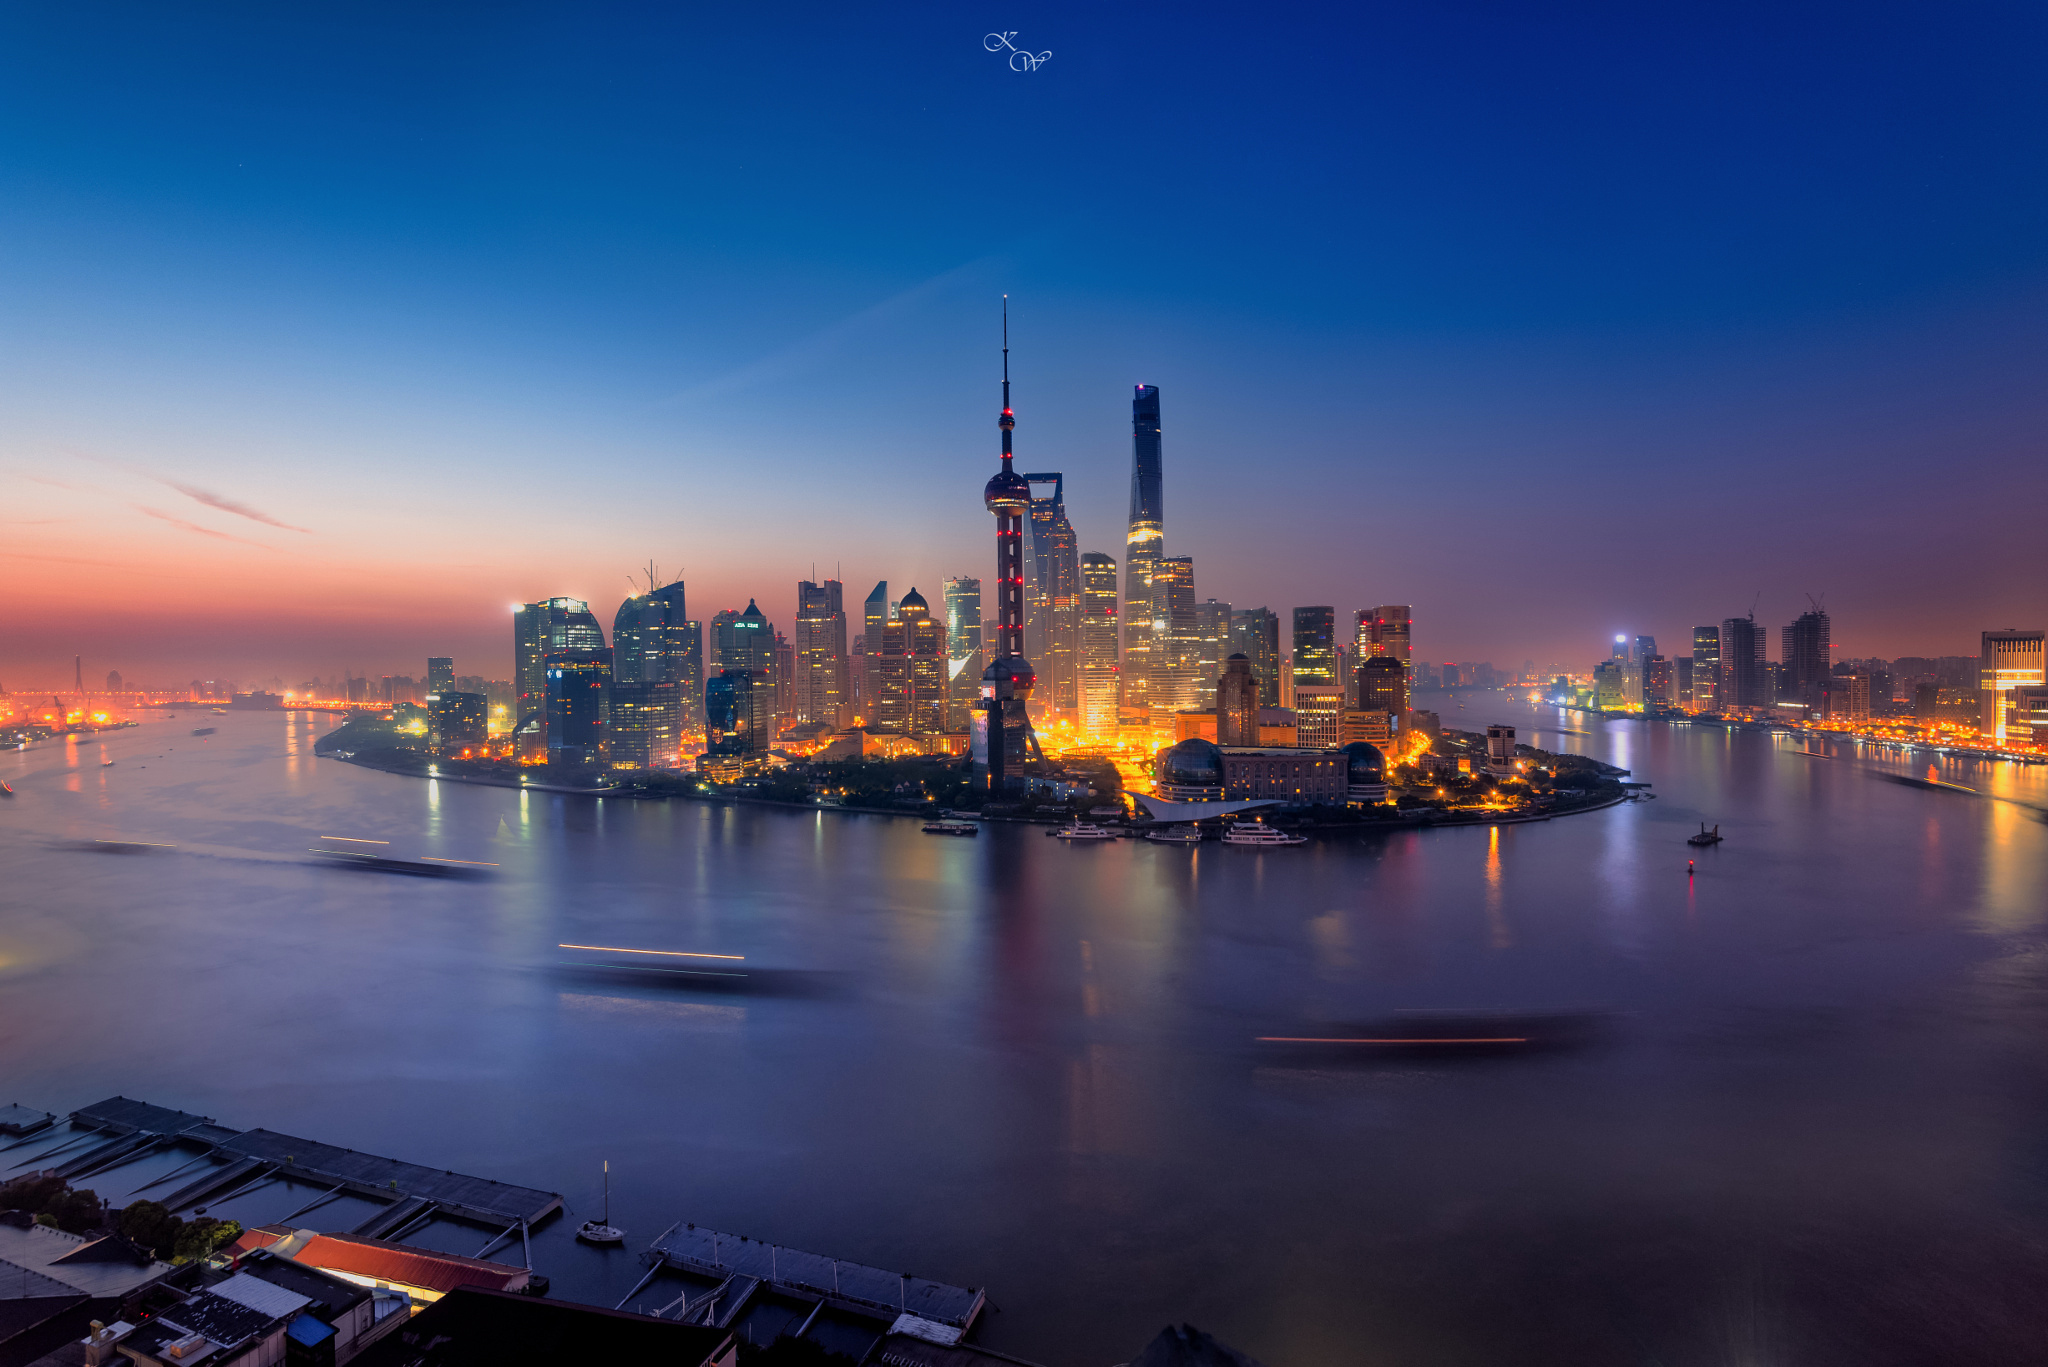
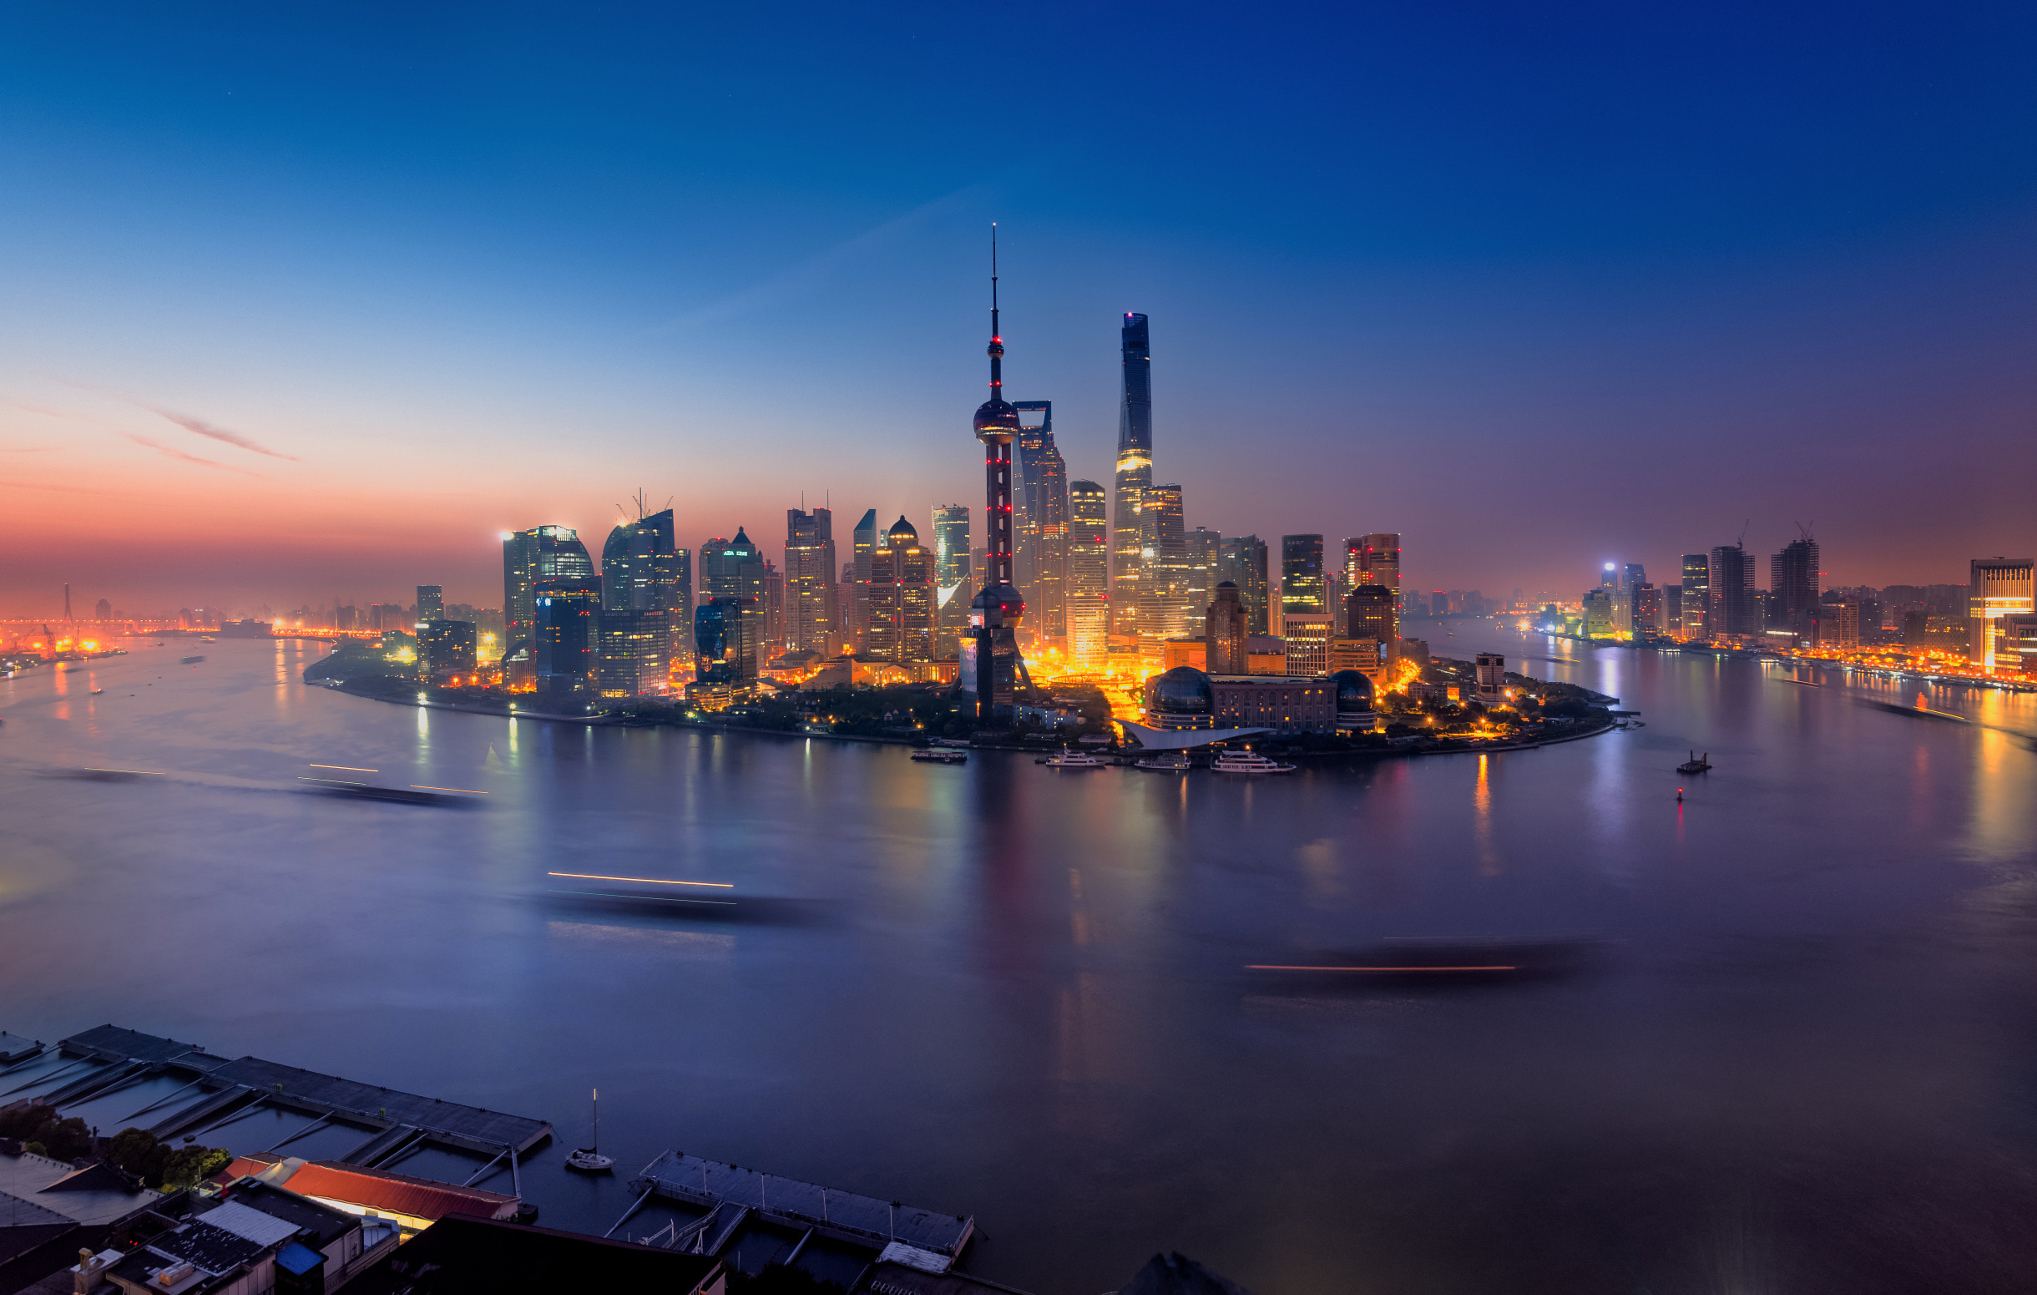
test

diff --git a/index.html b/index.html
@@ -11,7 +11,7 @@
   <body>
  <div style="overflow:auto; position:absolute; top: 0px; left:0px; right:0px; bottom:0px;">
   <div id="nav">
-    <ul id="nav_ul">
+    <ul id="nav_ul" style="box-shadow: 5px 5px 5px #555555;">
       <li><a class="active" href="#nav">Home</a></li>
       <li><a href="#about">ABOUT</a></li>
       <li><a href="#skill">SKILLS</a></li>
@@ -35,7 +35,7 @@
       <div id="photo">
        <image id="photo_img"  src="image/jing1.jpg" style="box-shadow: 3px 3px 5px #888888;">
       </div>
-      <div id="description">
+      <div id="description" class="page">
         <table>
           <tr><td><span style="font-size: 80%;">I am a third year Computer Science undergraduate student at University of Waterloo, with an interest in statistics, combinatorics & optimization and computer science.</span></td></tr>
           <tr><td><span style="font-size: 80%;"><span class="bold">DATE OF BIRTH</span>: 06/12/1994</span></td></tr>
@@ -59,7 +59,7 @@
       <div style="background: #303F9F;box-shadow: 3px 3px 5px #888888;">
        <h1 class="header">Education</h1>
       </div>
-      <div style="position:relative; left: 10%; width: 80%">
+      <div style="position:relative; left: 10%; width: 80%" class="page">
        <table>
           <th colspan="2"><image class="rotate" src="image/uw.gif" style="width:10%"><span class="bold" style="font-size: 2em">University of Waterloo</span></th>
           <tr><td colspan="2"><span class="bold">Major</span>: Computer Science</td></tr>

diff --git a/style.css b/style.css
@@ -6,6 +6,13 @@ html * {
 body{
   overflow:hidden;
 }
+
+.page{
+  position: relative;
+  background: #ffffff;
+  box-shadow: 3px 3px 3px #888888;
+  border: 2px solid #BDBDBD;
+}
 @media screen and (max-width: 767px) {
   body{
     background: url("image/shanghai_w1.jpg");
@@ -65,7 +72,7 @@ body{
 
 @media screen and (min-width: 1080px) {      
   body{      
-    background: url("image/shanghai2.jpg");
+    background: url("image/shanghai.jpg");
     background-size: cover;
     font-size: 1em;
   } 
@@ -76,14 +83,14 @@ body{
   #photo{
     position: relative;
     left:10%;
-    width: 15%;
+    width: 20%;
     float: left;
   }
   #description{
     position:relative;
-    left: 25%;
+    left: 35%;
     height:40%;
-    width:60%;
+    width:55%;
   }
   #skills{
     position: relative;
